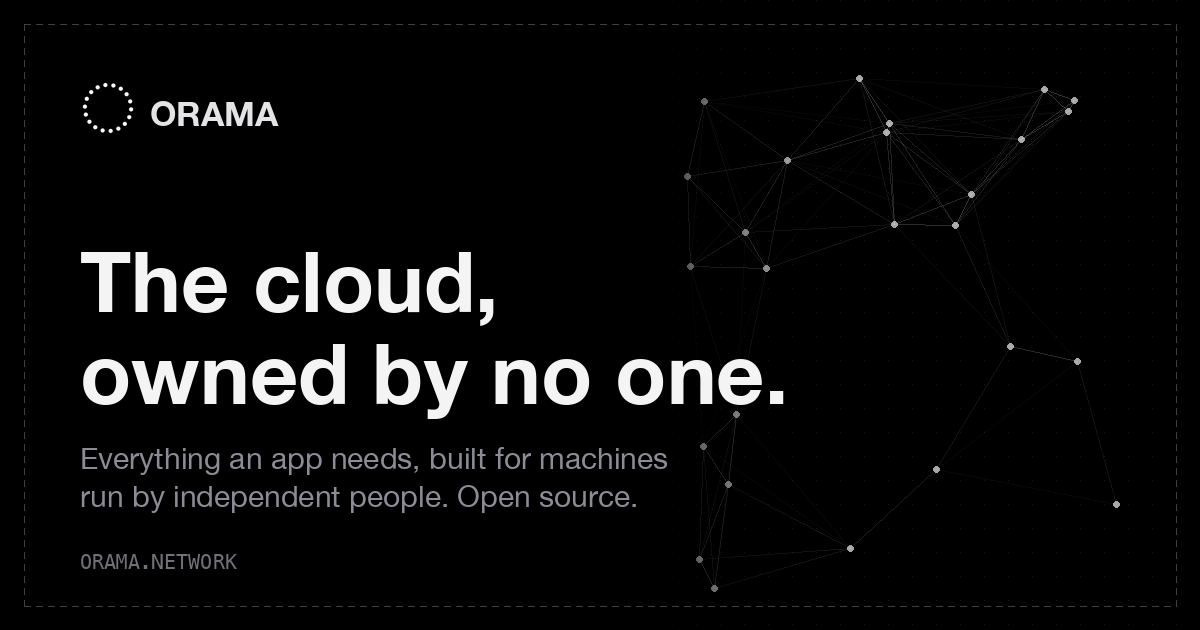
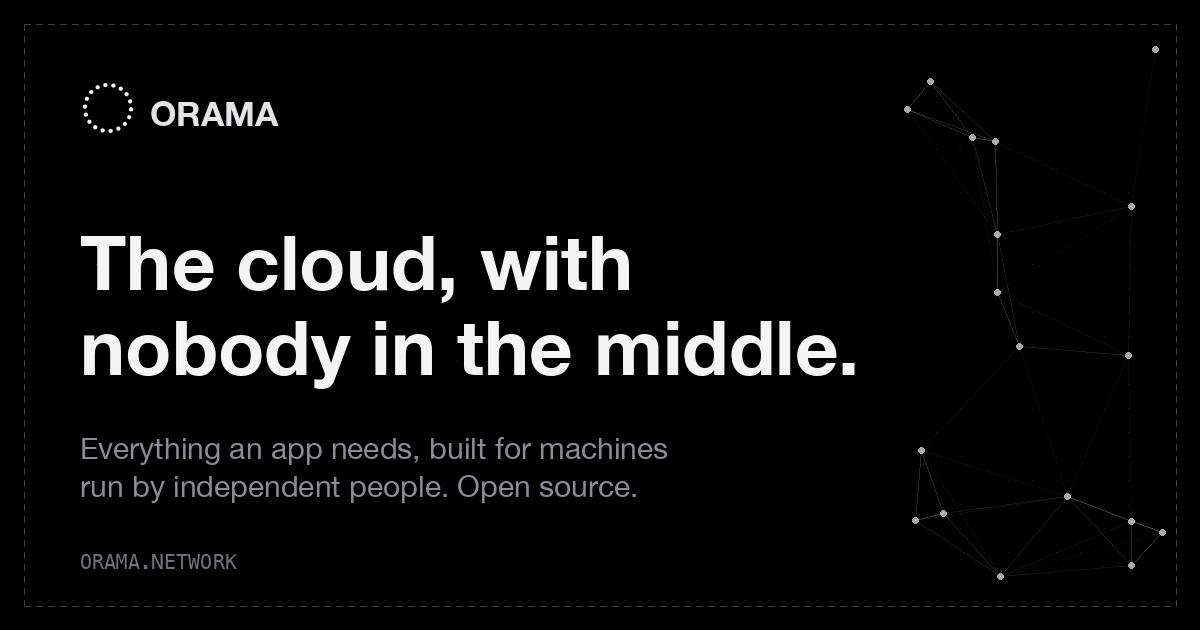
feat(website): hero reads "The cloud, with nobody in the middle"
Same line in the page title, link-preview image and footer tagline, so the site says one thing everywhere.

diff --git a/website/index.html b/website/index.html
@@ -8,7 +8,7 @@
     <!-- Marks that scripts run, so scroll-in animations only hide content a
          script will reveal. Without JS every section is simply visible. -->
     <script>document.documentElement.classList.add("js")</script>
-    <title>Orama Network: the decentralized cloud, owned by no one</title>
+    <title>Orama Network: the cloud, with nobody in the middle</title>
 
     <meta name="description" content="Everything an app needs (database, storage, hosting, functions, calls, notifications), built for machines run by independent people, not one giant company." />
     <link rel="canonical" href="https://orama.network/" />
@@ -16,22 +16,22 @@
     <!-- Open Graph -->
     <meta property="og:type" content="website" />
     <meta property="og:site_name" content="Orama Network" />
-    <meta property="og:title" content="Orama Network: the decentralized cloud, owned by no one" />
+    <meta property="og:title" content="Orama Network: the cloud, with nobody in the middle" />
     <meta property="og:description" content="Everything an app needs (database, storage, hosting, functions, calls, notifications), built for machines run by independent people, not one giant company." />
     <meta property="og:url" content="https://orama.network/" />
     <meta property="og:image" content="https://orama.network/og-image.png" />
     <meta property="og:image:width" content="1200" />
     <meta property="og:image:height" content="630" />
-    <meta property="og:image:alt" content="Orama Network: the cloud, owned by no one." />
+    <meta property="og:image:alt" content="Orama Network: the cloud, with nobody in the middle." />
     <meta property="og:locale" content="en_US" />
 
     <!-- X / Twitter -->
     <meta name="twitter:card" content="summary_large_image" />
     <meta name="twitter:site" content="@orama_network" />
-    <meta name="twitter:title" content="Orama Network: the decentralized cloud, owned by no one" />
+    <meta name="twitter:title" content="Orama Network: the cloud, with nobody in the middle" />
     <meta name="twitter:description" content="Everything an app needs (database, storage, hosting, functions, calls, notifications), built for machines run by independent people, not one giant company." />
     <meta name="twitter:image" content="https://orama.network/og-image.png" />
-    <meta name="twitter:image:alt" content="Orama Network: the cloud, owned by no one." />
+    <meta name="twitter:image:alt" content="Orama Network: the cloud, with nobody in the middle." />
 
   </head>
   <body>

diff --git a/website/src/pages/home.tsx b/website/src/pages/home.tsx
@@ -22,7 +22,7 @@ function Hero() {
   return (
     <section className="relative -mt-16 min-h-[100svh] flex items-center justify-center overflow-hidden">
       <HeroMesh />
-      <div className="relative z-10 flex flex-col items-center text-center gap-7 max-w-3xl mx-auto px-4 sm:px-6 pt-28 pb-20">
+      <div className="relative z-10 flex flex-col items-center text-center gap-7 max-w-5xl mx-auto px-4 sm:px-6 pt-28 pb-20">
         <span className="inline-flex items-center gap-2 px-3 py-1 text-[11px] font-mono tracking-widest uppercase rounded-full border border-dashed border-border text-muted">
           <span className="w-1.5 h-1.5 rounded-full bg-signal" />
           Early · working proof of concept
@@ -30,7 +30,8 @@ function Hero() {
         <h1 className="font-display font-bold text-[2.5rem] leading-[1.04] sm:text-6xl lg:text-7xl tracking-tight text-fg text-balance">
           The cloud,
           <br />
-          owned by no one.
+          <span className="whitespace-nowrap">with nobody</span>{" "}
+          <span className="whitespace-nowrap">in the middle.</span>
         </h1>
         <p className="text-muted text-lg sm:text-xl max-w-xl text-pretty">
           Everything an app needs to run, built for machines run by independent people, not one giant company.

diff --git a/website/src/components/navigation/footer.tsx b/website/src/components/navigation/footer.tsx
@@ -65,7 +65,7 @@ export function Footer() {
               <img src={oramaIcon} alt="Orama" className="h-6 w-6" />
               <span className="font-display text-base font-bold tracking-widest text-fg">ORAMA</span>
             </Link>
-            <p className="text-muted text-sm max-w-xs">The cloud, owned by no one. Open source, built in the open.</p>
+            <p className="text-muted text-sm max-w-xs">The cloud, with nobody in the middle. Open source, built in the open.</p>
             <ul className="flex flex-col gap-1">
               {CONTACT_EMAILS.map((e) => (
                 <li key={e.address} className="flex items-baseline gap-2 text-xs">

diff --git a/website/src/content/routes.ts b/website/src/content/routes.ts
@@ -20,7 +20,7 @@ export interface RouteMeta {
 export const ROUTES = {
   home: {
     path: "/",
-    title: "Orama Network: the decentralized cloud, owned by no one",
+    title: "Orama Network: the cloud, with nobody in the middle",
     description:
       "Everything an app needs (database, storage, hosting, functions, calls, notifications), built for machines run by independent people, not one giant company.",
   },
